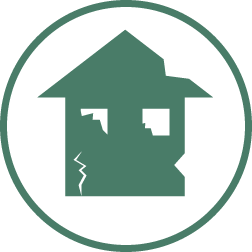
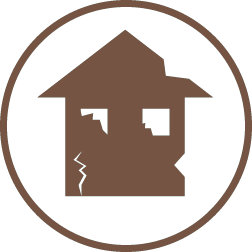
carinas changes

diff --git a/js/index.js b/js/index.js
@@ -72,6 +72,8 @@ defs.append("marker")
             "refY":0,
             "markerWidth":4,
             "markerHeight":4,
+            "fill":'black',
+            "opacity": 0.8,
             "orient":"auto"
         })
         .append("path")
@@ -195,7 +197,7 @@ var line8 = svg.append("line")
 
 var circle1 = svg.append("circle")
                 .attr("r", 5)
-                .attr("fill", "brown")
+                .attr("fill", "#6D4C3D")
                 .attr("transform", circTransform1)
                 .on("mouseover", function(){
                     return tooltip.style("visibility", "visible").html("The economic situation worsens.");
@@ -211,7 +213,7 @@ var circle1 = svg.append("circle")
 
 var circle2 = svg.append("circle")
     .attr("r", 5)
-    .attr("fill", "brown")
+    .attr("fill", "#6D4C3D")
     .attr("transform", circTransform2)
     .on("mouseover", function(){
         return tooltip.style("visibility", "visible").html("The unemployment rate increases as " + "<br>" + "companies cut down costs.");
@@ -227,7 +229,7 @@ var circle2 = svg.append("circle")
 
 var circle3 = svg.append("circle")
     .attr("r", 5)
-    .attr("fill", "brown")
+    .attr("fill", "#6D4C3D")
     .attr("transform", circTransform3)
     .on("mouseover", function(){
         return tooltip.style("visibility", "visible").html("Without a job, people default on their mortgages."+ "<br>" + "Their homes enter foreclosure.");
@@ -242,7 +244,7 @@ var circle3 = svg.append("circle")
 
 var circle4 = svg.append("circle")
     .attr("r", 5)
-    .attr("fill", "brown")
+    .attr("fill", "#6D4C3D")
     .attr("transform", circTransform4)
     .on("mouseover", function(){
         return tooltip.style("visibility", "visible").html("Without a home and without the prospect" + '<br>' + "of a new job, people start leaving the city.");
@@ -256,7 +258,7 @@ var circle4 = svg.append("circle")
 
 var circle5 = svg.append("circle")
     .attr("r", 5)
-    .attr("fill", "brown")
+    .attr("fill", "#6D4C3D")
     .attr("transform", circTransform5)
     .on("mouseover", function(){
         return tooltip.style("visibility", "visible")
@@ -271,7 +273,7 @@ var circle5 = svg.append("circle")
 
 var circle6 = svg.append("circle")
     .attr("r", 5)
-    .attr("fill", "brown")
+    .attr("fill", "#6D4C3D")
     .attr("transform", circTransform6)
     .on("mouseover", function(){
         return tooltip.style("visibility", "visible").html("The abandoned homes decrease the quality of life" + '<br>' + 'in the neighborhood as gangs and drug addicts take over the homes.');
@@ -285,7 +287,7 @@ var circle6 = svg.append("circle")
 
 var circle7 = svg.append("circle")
     .attr("r", 5)
-    .attr("fill", "brown")
+    .attr("fill", "red")
     .attr("transform", circTransform7)
     .on("mouseover", function(){
         return tooltip.style("visibility", "visible").html("More people move away.");
@@ -299,7 +301,7 @@ var circle7 = svg.append("circle")
 
 var circle8 = svg.append("circle")
     .attr("r", 5)
-    .attr("fill", "brown")
+    .attr("fill", "#6D4C3D")
     .attr("transform", circTransform8)
     .on("mouseover", function(){
         return tooltip.style("visibility", "visible").html('Less people means less potential employees and less money spent.');
@@ -311,37 +313,3 @@ var circle8 = svg.append("circle")
         return tooltip.style("visibility", "hidden");
     });
 
-
-// stop online code
-
-
-        // var text_box1 = svg.append('text')
-            // .attr("transform", circTransform1)
-            // // .style("position", "absolute")
-            // .style("font-family", "Helvetica Neue")
-            // .style("font-size", "12px")
-            // .style("color", "black")
-            // .style("background", "white")
-            // .style("padding", "4px")
-            // .style("border-radius", "6px")
-            // .style("opacity", 0.8)
-            // .style("border", "0px")
-            // .style("z-index", "10")
-            // .style("visibility", "visible")
-            // .html("<br>" + "Peak population: " + "<br>" + "2010 Population: ");
-
-  //    var text_box2 = svg.append('text')
-  //                       .attr("transform", circTransform2)
-  //                       // .style("position", "absolute")
-  //                       .style("font-family", "Helvetica Neue")
-  //                       .style("font-size", "12px")
-  //                       .style("color", "black")
-  //                       .style("background", "white")
-  //                       .style("padding", "4px")
-  //                       .style("border-radius", "6px")
-  //                       .style("opacity", 0.8)
-  //                       .style("border", "0px")
-  //                       .style("z-index", "10")
-  //                       .style("visibility", "visible")
-  //                       .html("<br>" + "Peak population: " + "<br>" + "2010 Population: ");
-                            

diff --git a/index.html b/index.html
@@ -38,9 +38,6 @@
     <link href='https://api.tiles.mapbox.com/mapbox-gl-js/v0.35.0/mapbox-gl.css' rel='stylesheet' />
 
 
-
-
-
     <title>Infoviz Final Project - Team 3</title>
     
 
@@ -493,30 +490,30 @@
         <div class="row">
             <div class="col-lg-3 col-md-6 text-center">
                 <div class="service-box">
-                    <i class="fa fa-4x fa fa-university text-secondary sr-icons"></i>
-                    <h3>Educator</h3>
-                    <p>Teaching at the intersection of CogSci and Data Science.</p>
+                    <i class="fa fa-4x fa fa-phone text-secondary sr-icons"></i>
+                    <h3>Call 311</h3>
+                    <p>Report abandoned homes so that city officials can inspect them.</p>
                 </div>
             </div>
             <div class="col-lg-3 col-md-6 text-center">
                 <div class="service-box">
-                    <i class="fa fa-4x fa fa-sitemap text-secondary sr-icons"></i>
-                    <h3>Organizer</h3>
-                    <p>Authored the 'Discipline of Organizing'.</p>
+                    <i class="fa fa-4x fa fa-users text-secondary sr-icons"></i>
+                    <h3>Rally the neighborhood</h3>
+                    <p>Collaborate with your community to find new solutions to this old problem.</p>
                 </div>
             </div>
             <div class="col-lg-3 col-md-6 text-center">
                 <div class="service-box">
-                    <i class="fa fa-4x fa-graduation-cap text-secondary sr-icons"></i>
-                    <h3>Academic</h3>
-                    <p>PhD in Cognitive Psychology from UC San Diego.</p>
+                    <i class="fa fa-4x fa-bank text-secondary sr-icons"></i>
+                    <h3>Identify the property owners</h3>
+                    <p>Often, the owners are banks. Ask them to take care of the property.</p>
                 </div>
             </div>
             <div class="col-lg-3 col-md-6 text-center">
                 <div class="service-box">
-                    <i class="fa fa-4x fa-globe text-secondary sr-icons"></i>
-                    <h3>Adventurer</h3>
-                    <p>Insert smart thing to say here.</p>
+                    <i class="fa fa-4x fa-ban text-secondary sr-icons"></i>
+                    <h3>Stay safe</h3>
+                    <p>Do not enter abandoned homes and inform others of the risks.</p>
                 </div>
             </div>
         </div>
@@ -524,42 +521,19 @@
 </section>
 
 
-
-    <br>
-    <hr style="border-color: #c6c6c6; border-width: 1px; max-width: 800px;">
-
-
-    <section style='background-color:#f7f3e3'>
-    
-        <h2 style='color:black'><i> What Now? </i></h2>
-        <div class='container'>
-            <h3 style='line-height: 1.3em;'> In order to prevent undesirable outcomes, residents should be proactive and look for ways to help the neighborhood's well being. Here are some actions California residents can take when there is an abandoned property in the neighborhood:</h3>
-
-            <ol>
-                <h4 style='line-height: 2.5 em;'><li>Call 311 or put in a <a href="https://www.sf311.org/web/guest/home#">new request online (link)
-                </a></li></h4>
-                <h4><li>Request name of bank from <a href="http://www.sfassessor.org/">county tax assessor (link) </a> to make sure they understand the importance of maintaining a vacant home 
-                </li></h4>
-                <h4><li>If you detect any violations (e.g. broken windows, visible trash), call the City's building department to prevent the property from deteriorating any further - <a href="http://sfdbi.org/"> SF Department of Building Inspection (link) </a> 
-                </li></h4>
-            </ol>
-        </div><br>
-
-    </section>
-
-    <section id="sources">
-    <div>
-        <p>
-        Created as a final project for I247 - Information Visualization and Presentation.
-        </p>
-        <p>
-        The Github code for this project can be found <a href="https://github.com/carinasauter/InfoVizfinal">here</a>.
-        </p>
-        <p>
-        Team members: <a href="https://www.linkedin.com/in/lizlee0225/">Liz Lee</a>, <a href="https://uraza.me/">Usman Raza</a> and <a href="http://www.carinasauter.com">Carina Sauter</a>.
-        </p>
-    </div>  
-    </section>
+<section id="sources">
+<div>
+    <p>
+    Created as a final project for I247 - Information Visualization and Presentation.
+    </p>
+    <p>
+    The Github code for this project can be found <a href="https://github.com/carinasauter/InfoVizfinal">here</a>.
+    </p>
+    <p>
+    Team members: <a href="https://www.linkedin.com/in/lizlee0225/">Liz Lee</a>, <a href="https://uraza.me/">Usman Raza</a> and <a href="http://www.carinasauter.com">Carina Sauter</a>.
+    </p>
+</div>  
+</section>
 
 
 </body>

diff --git a/css/index.css b/css/index.css
@@ -627,27 +627,23 @@ text {
     text-align: center;
 }
 
-  .arrow{
-    stroke-width:5;
-    stroke:#000;
-    stroke-dasharray:5, 5;
-  }
+.arrow{
+  stroke-width:5;
+  stroke:#000;
+  stroke-dasharray:5, 5;
+  fill:grey;
+}
 
-  circle{
-    stroke-width:5;
-    stroke:blue;
-    fill:blue;
-  }
-
-  #turtle-icon, #arrow{
-    stroke-width:1;
-    stroke-dasharray:0; 
-  }
+circle{
+  stroke-width:5;
+  stroke:#6D4C3D;
+  fill:#6D4C3D;
+}
 
   .flowline {
     fill: none;
     stroke: black;
-    opacity: 1;
+    opacity: 0.8;
     stroke-width: 4;
     stroke-dasharray: 10, 4;
     animation: flow 1s linear infinite;
@@ -684,19 +680,12 @@ text {
 
 }
 
-/*#cycle_viz {
-  height: 120vh; 
-}*/
-
 .viz_text{
   width: 60%;
   margin: auto;
-
-  /*background-color: green;*/
 }
 
 .viz_graph {
-  /*background-color: blue;*/
   margin:auto;
 }
 
@@ -799,7 +788,7 @@ text {
 }
 
 #services {
-  background-color: #F05F40;
+  /*background-color: #F05F40;*/
   padding-top: 4%;
   height: 50vh;
 }
